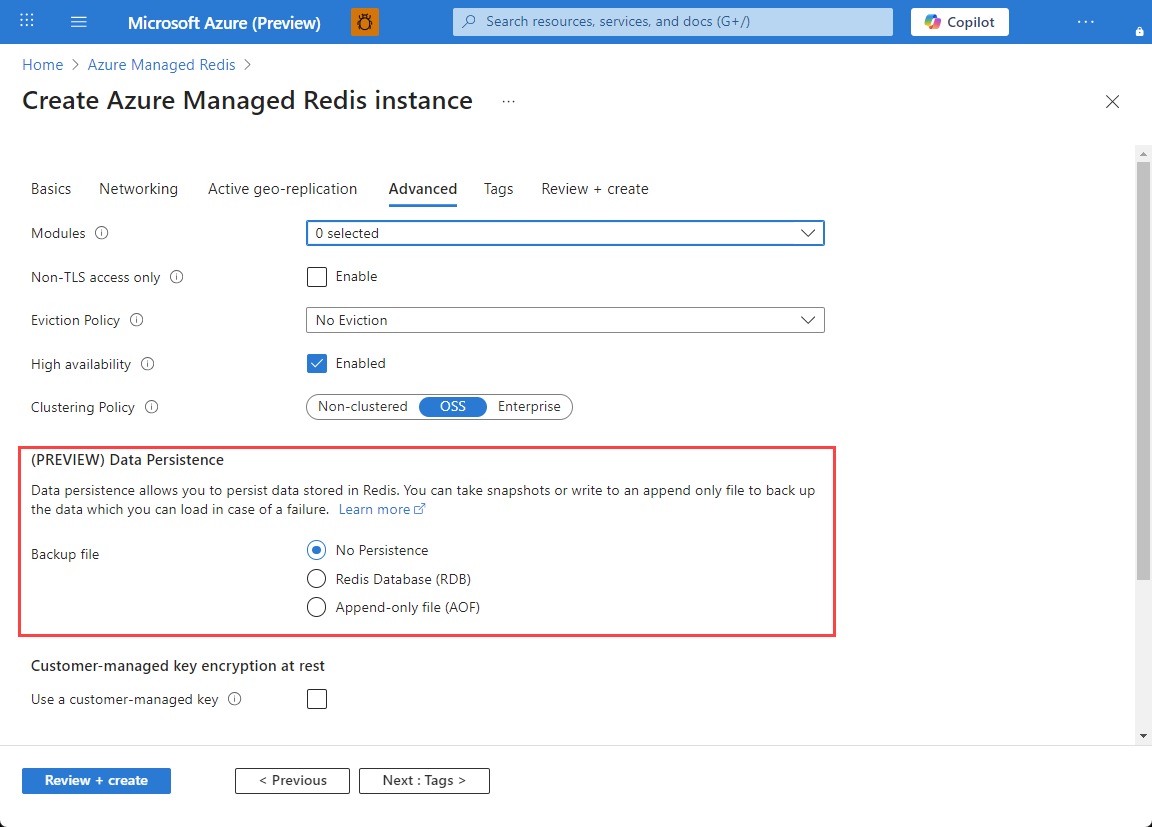
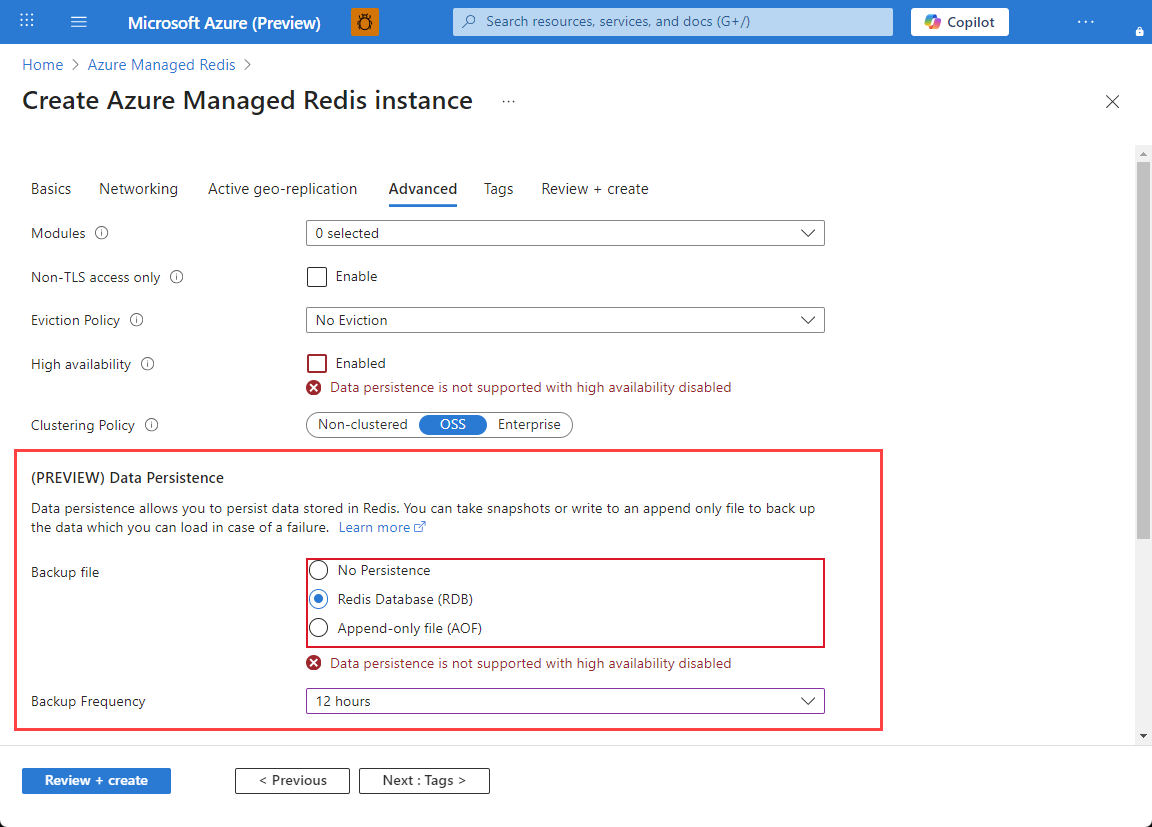
Made minor updates

diff --git a/articles/redis/how-to-persistence.md b/articles/redis/how-to-persistence.md
@@ -1,7 +1,7 @@
 ---
 title: Configure data persistence - Azure Managed Redis
 description: Learn how to configure and manage data persistence your Azure Managed Redis instances
-ms.date: 05/18/2025
+ms.date: 10/22/2025
 ms.topic: conceptual
 ms.custom:
   - devx-track-azurecli
@@ -43,7 +43,7 @@ To generate any backups of data that can be added to a new cache, you can write 
 Persistence features are intended to be used to restore data to the same cache after data loss.
 
 - RDB/AOF persisted data files can't be imported to a new cache or the existing cache. Use the [Import/Export](how-to-import-export-data.md) feature instead.
-- Persistence isn't supported with caches using [active geo-replication](how-to-active-geo-replication.md).
+- Persistence requires you to enable High Availability on a new cache [active geo-replication](how-to-active-geo-replication.md).
 - The managed disk holding persisted data files is encrypted using Microsoft managed keys (MMK) by default, but customer managed keys (CMK) can also be used. For more information, see [managing data encryption](#managing-data-encryption).
 
 ## How to set up data persistence using the Azure portal
@@ -52,7 +52,7 @@ Persistence features are intended to be used to restore data to the same cache a
 
 1. When you reach the **Advanced** tab, select either _RDB_ or _AOF_ options in the **Data Persistence** section.
 
-    :::image type="content" source="media/how-to-persistence/managed-redis-advanced-persistence.png" alt-text="Screenshot that shows the Enterprise tier Advanced tab and Data persistence is highlighted with a red box.":::
+    :::image type="content" source="media/how-to-persistence/managed-redis-advanced-persistence.png" alt-text="Screenshot that shows a new Azure Managed Redis cache with Advanced tab and Data persistence is highlighted with a red box.":::
 
 1. To enable RDB persistence, select **RDB** and configure the settings.
 
